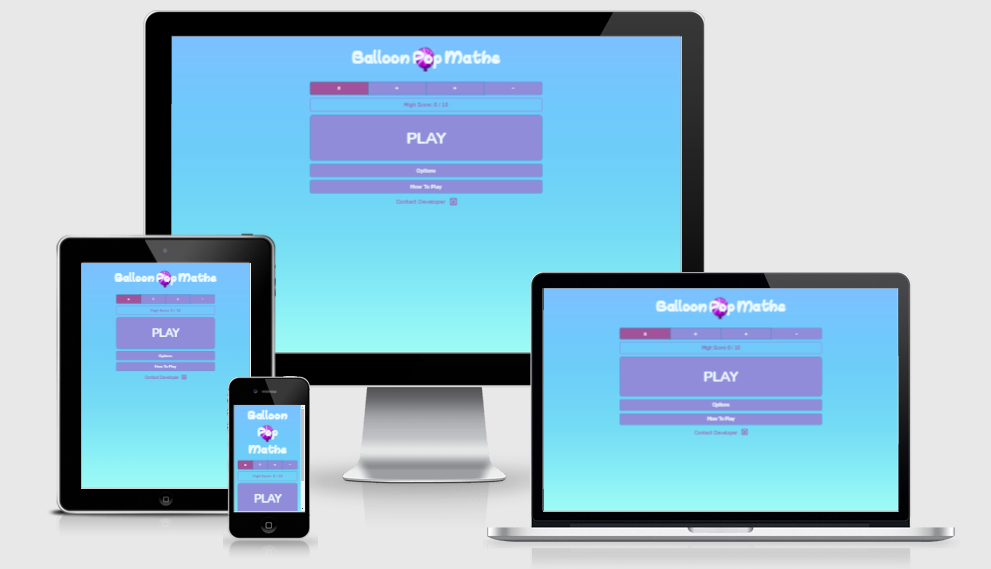
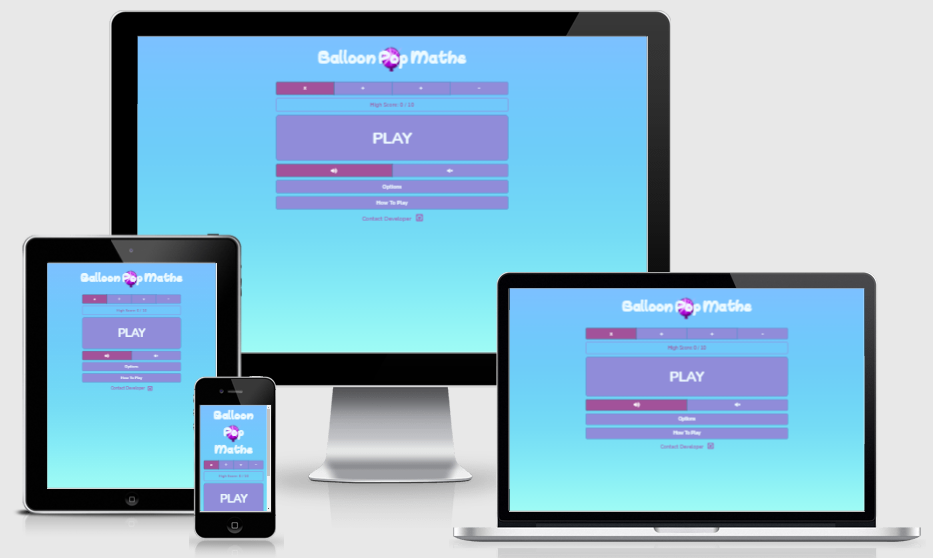
media query added to re-size heading, reposition heading image and re-size Play button for screen sizes under 680px high

Changed region(s): [[0.0, 0.0, 0.9946, 1.0]]

diff --git a/assets/css/style.css b/assets/css/style.css
@@ -434,6 +434,21 @@ body {
 }
 
 /*-- Media Queries --*/
+
+/*-- Media query to re-size heading, reposition heading image and re-size Play button for screen sizes under 680px high --*/
+@media (max-height: 680px) {
+    .heading-main {
+        font-size: 5rem;    
+    }
+    .container-heading-main img, .container-heading-main-large img {
+        margin-top: -0.6rem;
+    }
+    .btn-xxl {
+        padding: 0.5rem 0.5rem;
+        font-size: 4.0rem;
+    }
+}
+
 /*-- Media query to re-size balloon canvas and text elements for devices over 400px wide --*/
  @media (min-width: 400px) {
     .canvas-balloon {
